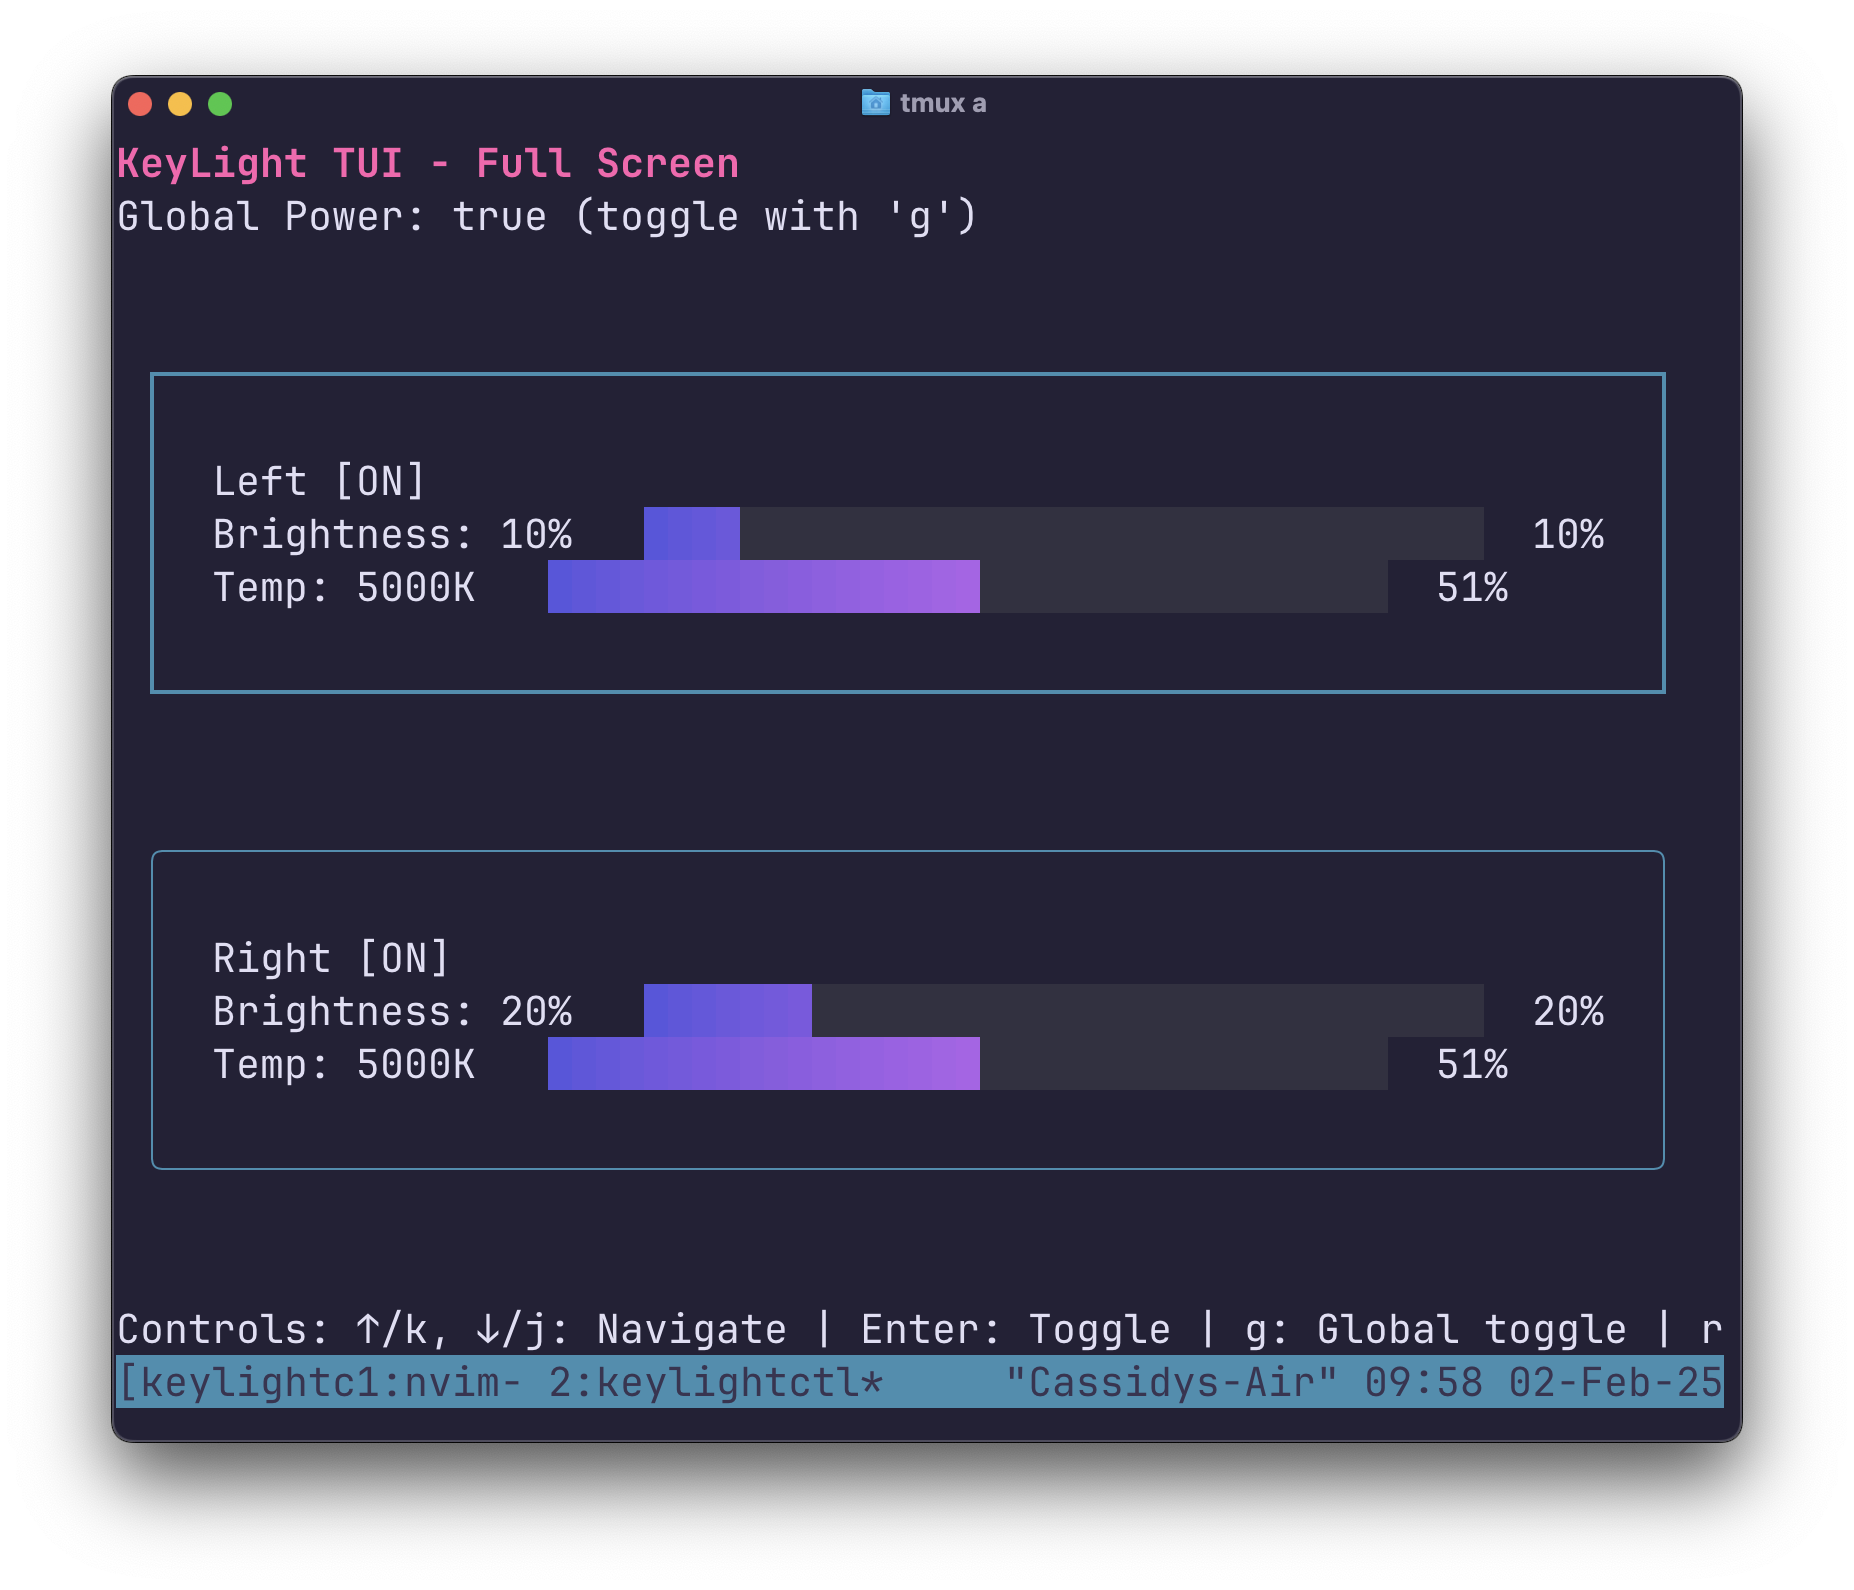
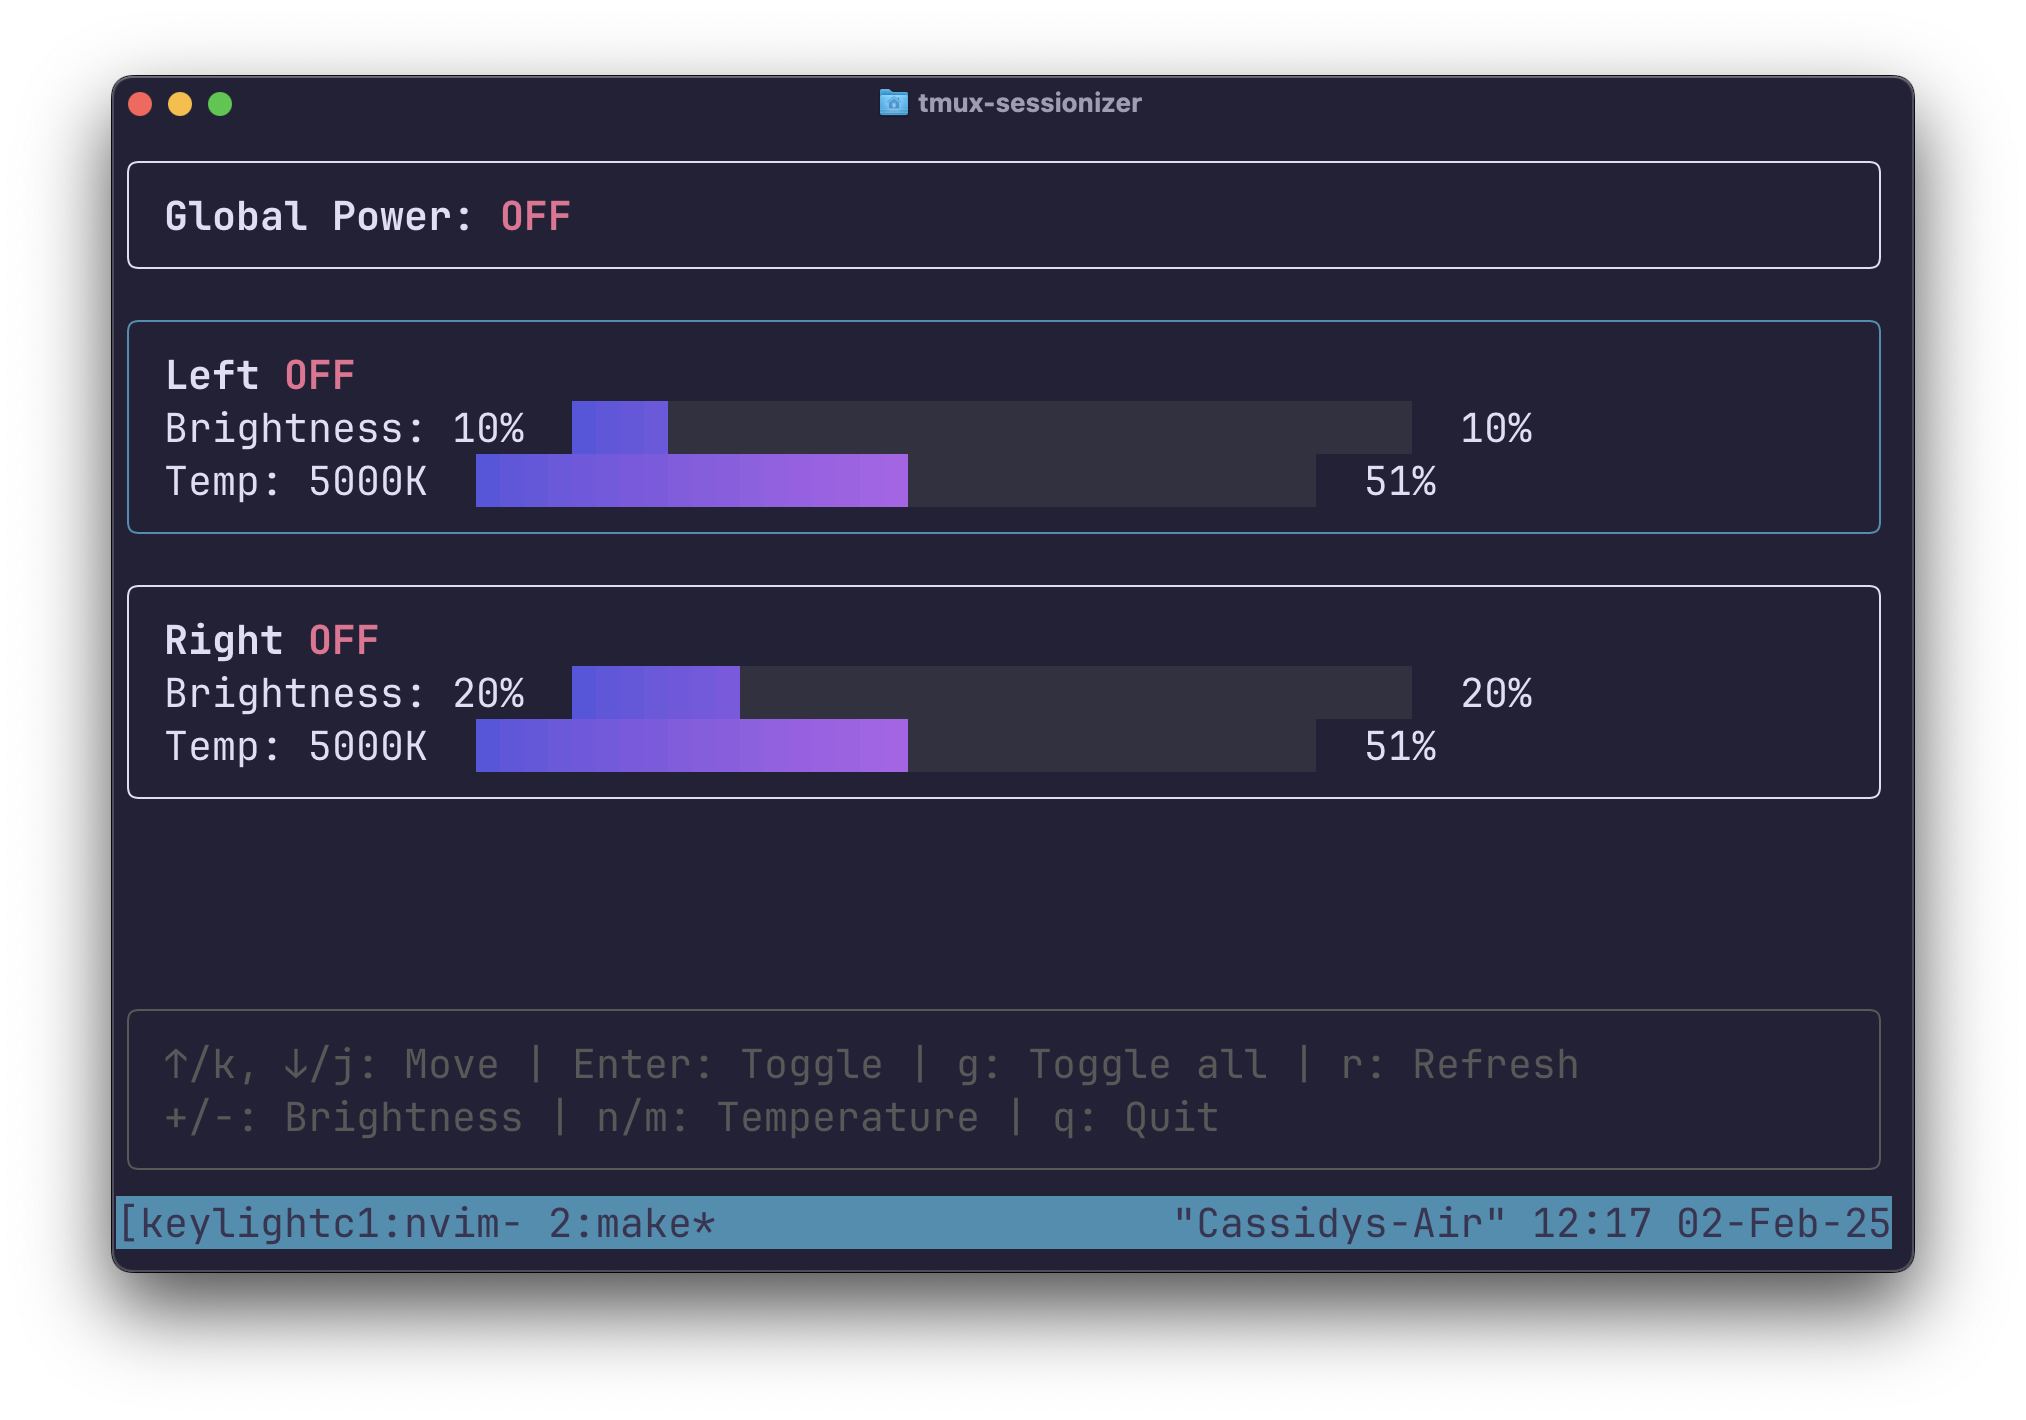
update UI

diff --git a/tui/view.go b/tui/view.go
@@ -2,77 +2,101 @@ package tui
 
 import (
 	"fmt"
+	"strings"
+
 	"github.com/charmbracelet/lipgloss"
 )
 
-func (m Model) View() string {
-	var s string
+const cardWidth = 72
 
-	titleStyle := lipgloss.NewStyle().
-		Bold(true).
-		Foreground(lipgloss.Color("205"))
-	header := titleStyle.Render("KeyLight TUI - Full Screen")
-	globalStatus := fmt.Sprintf("Global Power: %v (toggle with 'g')", m.GlobalOn)
-	headerBlock := header + "\n" + globalStatus + "\n\n"
-
-	var body string
-	for i, light := range m.Lights {
-		baseCardStyle := lipgloss.NewStyle().
-			Border(lipgloss.RoundedBorder()).
-			Padding(1, 2).
-			Margin(1)
-
-		var dynamicStyle lipgloss.Style
-		if light.On {
-			dynamicStyle = baseCardStyle.BorderForeground(lipgloss.Color("2"))
-		} else {
-			dynamicStyle = baseCardStyle.BorderForeground(lipgloss.Color("240"))
-		}
-
-		onStatus := "OFF"
-		if light.On {
-			onStatus = "ON"
-		}
-		lightHeader := fmt.Sprintf("%s [%s]", light.Name, onStatus)
-		brightnessRatio := float64(light.Brightness) / 100.0
-		tempRatio := float64(light.Temperature-2900) / float64(7000-2900)
-		brightnessBarStr := m.brightnessBar.ViewAs(brightnessRatio)
-		temperatureBarStr := m.temperatureBar.ViewAs(tempRatio)
-		brightnessText := fmt.Sprintf("Brightness: %d%%   %s", light.Brightness, brightnessBarStr)
-		temperatureText := fmt.Sprintf("Temp: %dK   %s", light.Temperature, temperatureBarStr)
-		bodyBlock := lipgloss.JoinVertical(lipgloss.Left, lightHeader, brightnessText, temperatureText)
-
-		if i == m.Cursor {
-			dynamicStyle = dynamicStyle.BorderStyle(lipgloss.ThickBorder())
-			bodyBlock = lipgloss.NewStyle().Foreground(lipgloss.Color("15")).Render(bodyBlock)
-		}
-
-		body += dynamicStyle.Render(bodyBlock) + "\n"
-	}
-
-	s = headerBlock + body
-
-	footer := "\nControls: ↑/k, ↓/j: Navigate | Enter: Toggle | g: Global toggle | r: Refresh | +: Brightness up, -: down | n: Temp up, m: Temp down | q: Quit"
-
-	linesUsed := countLines(s) + countLines(footer)
-	spacerLines := m.height - linesUsed
-	if spacerLines < 0 {
-		spacerLines = 0
-	}
-	spacer := ""
-	for i := 0; i < spacerLines; i++ {
-		spacer += "\n"
-	}
-
-	return s + spacer + footer
+func baseCardStyle() lipgloss.Style {
+	return lipgloss.NewStyle().
+		Border(lipgloss.RoundedBorder()).
+		Padding(0, 1).
+		Width(cardWidth)
 }
 
-func countLines(s string) int {
-	count := 0
-	for _, r := range s {
-		if r == '\n' {
-			count++
-		}
+func applySelection(style lipgloss.Style, selected bool) lipgloss.Style {
+	if selected {
+		return style.BorderForeground(lipgloss.Color("2"))
 	}
-	return count + 1
+	return style
+}
+
+func formatStatus(isOn bool) string {
+	if isOn {
+		return lipgloss.NewStyle().Foreground(lipgloss.Color("2")).Render("ON")
+	}
+	return lipgloss.NewStyle().Foreground(lipgloss.Color("1")).Render("OFF")
+}
+
+func renderGlobalCard(globalOn bool) string {
+	globalText := lipgloss.NewStyle().Bold(true).Render("Global Power: " + formatStatus(globalOn))
+	card := baseCardStyle()
+	return card.Render(globalText)
+}
+
+func renderLightCard(light Light, isSelected bool, brightnessBar, temperatureBar Bar) string {
+	card := applySelection(baseCardStyle(), isSelected)
+
+	lightHeader := lipgloss.NewStyle().Bold(true).Render(light.Name + " " + formatStatus(light.On))
+
+	brightnessRatio := float64(light.Brightness) / 100.0
+	tempRatio := float64(light.Temperature-2900) / float64(7000-2900)
+	brightnessBarStr := brightnessBar.ViewAs(brightnessRatio)
+	temperatureBarStr := temperatureBar.ViewAs(tempRatio)
+
+	brightnessText := fmt.Sprintf("Brightness: %d%%  %s", light.Brightness, brightnessBarStr)
+	temperatureText := fmt.Sprintf("Temp: %dK  %s", light.Temperature, temperatureBarStr)
+
+	bodyBlock := lipgloss.JoinVertical(lipgloss.Left, lightHeader, brightnessText, temperatureText)
+
+	if isSelected {
+		bodyBlock = lipgloss.NewStyle().Foreground(lipgloss.Color("15")).Render(bodyBlock)
+	}
+
+	return card.Render(bodyBlock)
+}
+
+func renderFooter() string {
+	footerStyle := baseCardStyle().
+		BorderForeground(lipgloss.Color("240")).
+		Foreground(lipgloss.Color("240"))
+
+	controlsText := "↑/k, ↓/j: Move | Enter: Toggle | g: Toggle all | r: Refresh\n+/-: Brightness | n/m: Temperature | q: Quit"
+
+	return footerStyle.Render(controlsText)
+}
+
+type Bar interface {
+	ViewAs(ratio float64) string
+}
+
+func (m Model) View() string {
+	globalCard := renderGlobalCard(m.GlobalOn)
+
+	lightCards := make([]string, len(m.Lights))
+	for i, light := range m.Lights {
+		lightCards[i] = renderLightCard(light, i == m.Cursor, m.brightnessBar, m.temperatureBar)
+	}
+
+	footer := renderFooter()
+
+	globalHeight := strings.Count(globalCard, "\n") + 1
+	footerHeight := strings.Count(footer, "\n") + 1
+	lightsHeight := 0
+	for _, light := range lightCards {
+		lightsHeight += strings.Count(light, "\n") + 1
+	}
+	spacerHeight := m.height - globalHeight - lightsHeight - footerHeight - 1
+	if spacerHeight < 0 {
+		spacerHeight = 0
+	}
+
+	spacer := strings.Repeat("\n", spacerHeight)
+	content := append([]string{globalCard}, lightCards...)
+	content = append(content, spacer)
+	content = append(content, footer)
+
+	return lipgloss.JoinVertical(lipgloss.Left, content...)
 }
